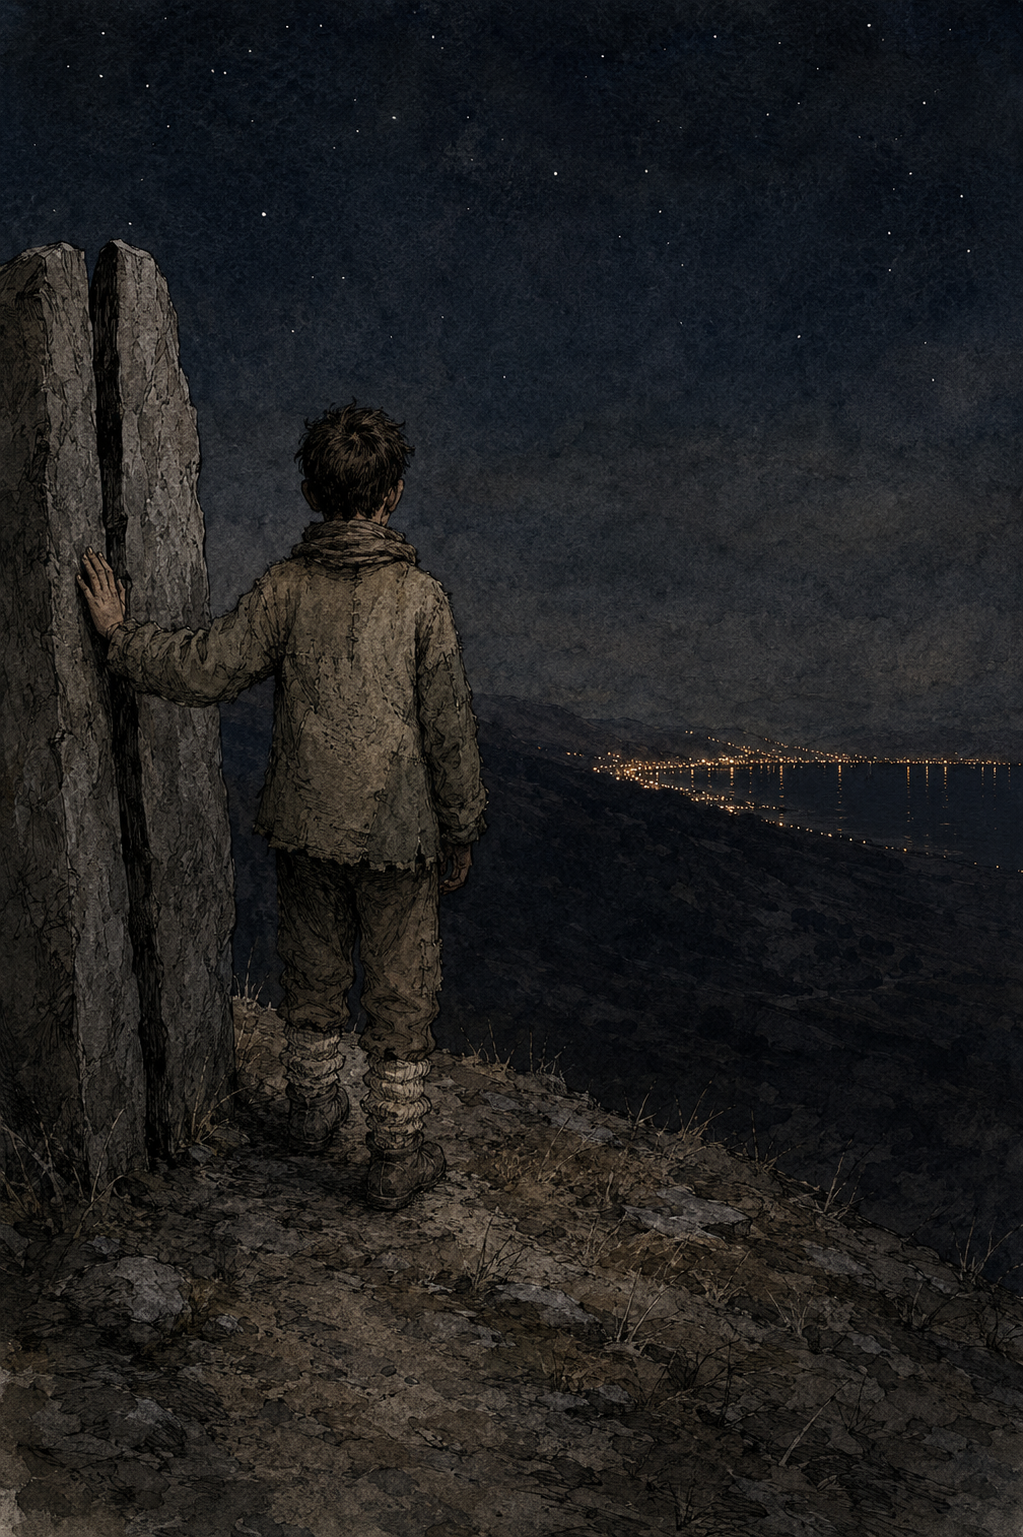
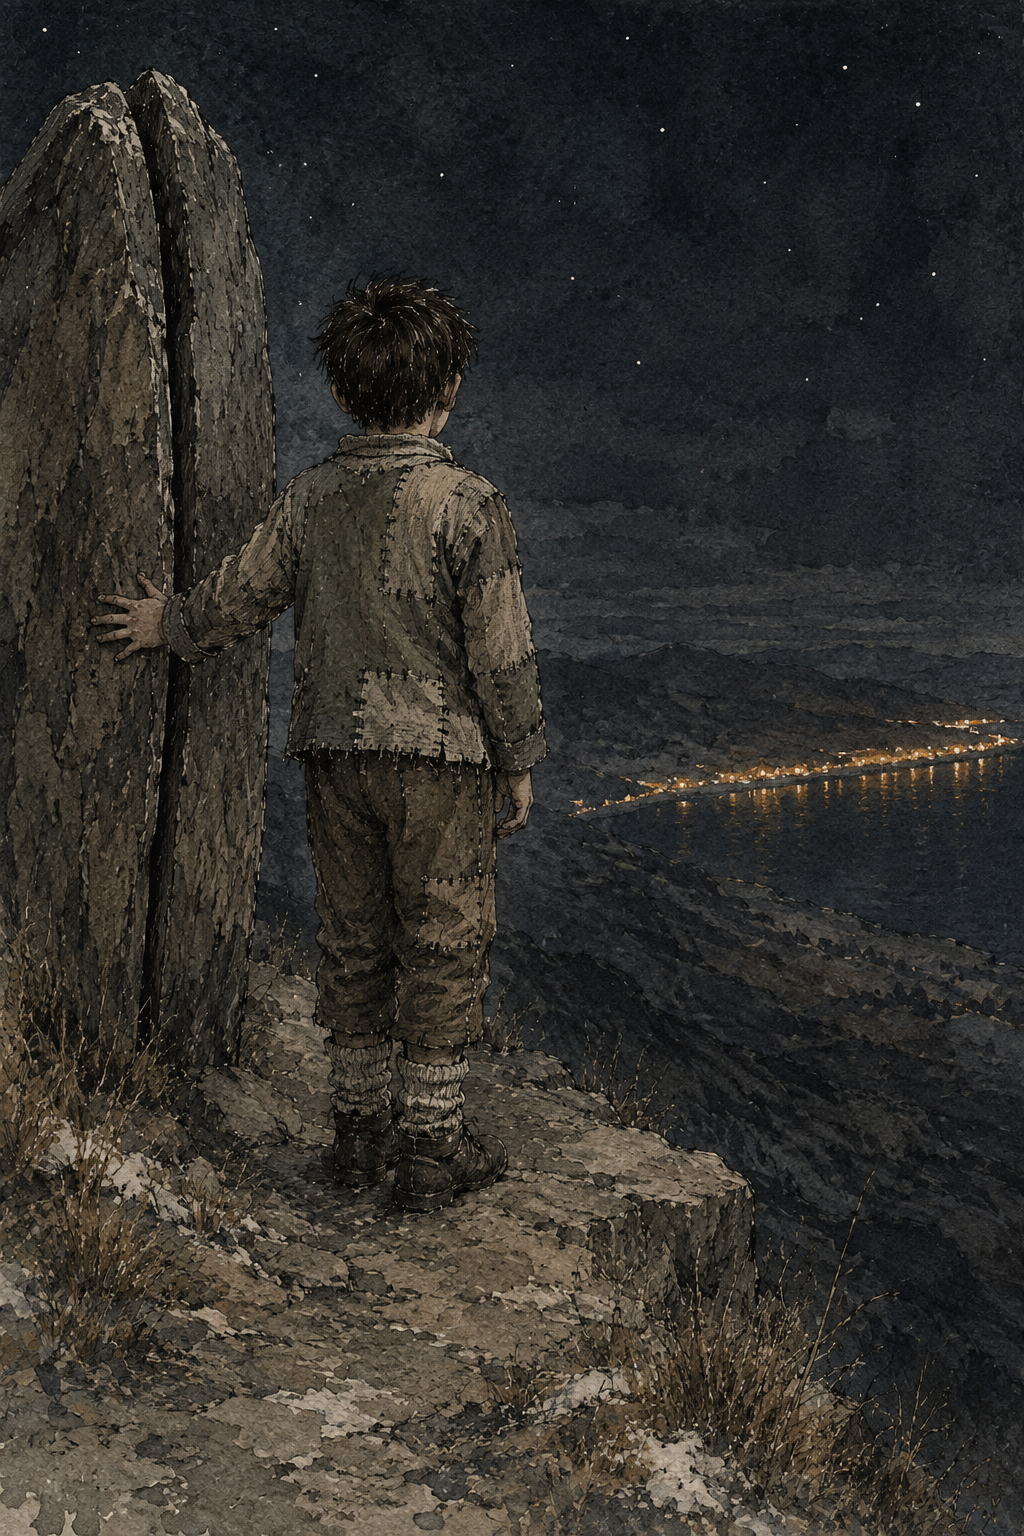
Rename the Ch. 5 plates by what they show and build the two pails

diff --git a/08-Plates/plates/ch05.md b/08-Plates/plates/ch05.md
@@ -6,11 +6,11 @@ Written to `../scene-prompt-system.md` §Write for an image generator: each fact
 
 ---
 
-### FIRST RUN: past-the-split-rock
+### PLATE-IMAGE-ONLY: hand-on-the-rock
 
 *Candidate 1, the chapter's pick, and the author's named target (s40).* Anchor: `images/portraits/kael-9.png` — hair and colouring; his face is not in this picture. Ch. 5 canon: *The split rock stood up out of the dark where it had always stood, at the end of the path, at the end of the world. Kael put his hand on it, the way you put your hand on the goat, on the door, on a thing of the house... Below him, far down, in the corner where the land met the sea, the whole heap of fallen stars was burning — more of them than he had ever seen, doubled and trembling in the black water, the longest night of the year lit end to end... He stepped past the rock.* And, of the walk down: *Wool socks over the boots' voice.*
 
-**ADOPTED.** `images/plates/ch05-past-the-split-rock.png`, first run.
+**ADOPTED — `images/plates/ch05-hand-on-the-rock.png`, first run.** Named for what it shows. It came back as the paragraph before the crossing — *Kael put his hand on it, the way you put your hand on the goat, on the door, on a thing of the house* — which is its own Ch. 5 beat, so it stands as its own plate rather than as a rejected version of the one below.
 
 **WHAT THE RUN PROVED, and the second one is the one that travels:**
 
@@ -38,14 +38,14 @@ Written to `../scene-prompt-system.md` §Write for an image generator: each fact
 
 **ANCHORING COST.** There is still no full figure of Kael below fourteen, so everything under the collar is authored here and anchored to nothing. It will not repeat in the next Part I plate. The portrait buys the medium, the palette and the hair — which is worth having, since `room-of-true-things` was written to test whether the house look survives with no reference at all and has never been run.
 
-**THE PROMPT THAT MADE THIS IMAGE IS NOT CARRIED HERE — author instruction, s41.** Only the compressed block below is kept. The 903-word block that produced `ch05-past-the-split-rock.png` was deleted deliberately and lives in `git show d5b3a5a:08-Plates/plates/ch05.md`. **So this image and the block below did not make each other**, and nothing on this sheet should be read as their pairing.
+**NO PROMPT IS CARRIED FOR THIS IMAGE — author instruction, s41.** `PLATE-IMAGE-ONLY` is what that heading means, and `scripts/build-prompts.sh` generates nothing from it. Only the compressed block below is kept. The 903-word block that produced `ch05-hand-on-the-rock.png` was deleted deliberately and lives in `git show d5b3a5a:08-Plates/plates/ch05.md`. **So this image and the block below did not make each other**, and nothing on this sheet should be read as their pairing.
 
 
 ---
 
-### PLATE: past-the-split-rock-recut
+### PLATE: past-the-split-rock
 
-**RUN — `images/plates/ch05-past-the-split-rock-recut.png`. Both images are kept (author, s41); one ruling outstanding, below.** The compression of the block above, kept as a separate prompt because **the adopted image's prompt of record may not be edited.**
+**RUN — `images/plates/ch05-past-the-split-rock.png`. One ruling outstanding, below.** The compression of the block above, kept as a separate prompt because **the adopted image's prompt of record may not be edited.**
 
 **IT FIXED WHAT IT AIMED AT.** *The ground he stands on is a narrow lip — the drop begins within a stride of that foot* produced exactly that: he stands on a rock shelf that ends at his boots, and the broad level ground of the first run is gone. *The rock stands behind his shoulder, not beside him* moved his body clear of the stone, so the crossing reads. **Replacing a banned pose with a described one worked both times**, which is §Write for an image generator's rule 6 the right way round.
 
@@ -133,4 +133,63 @@ the seams, the patches, the mended places and the bunched wool at his
 feet, ink dominant over wash throughout the clothing.
 
 No other figure anywhere in the frame, and no boat on the water.
+```
+
+
+---
+
+### PLATE: the-two-pails
+
+*Candidate 2.* **No anchor at all** — there is nobody in it. Ch. 5 canon: *two pails on the bench on a hard-frost night, one pail plain and one brined for the goat, set out together, found together in the iron morning... The plain pail wore its lid of ice. The brine pail moved when he rocked it, dark and obedient and unfrozen* — and the sentence that is the school: *The more salt the water carries, the deeper the cold must bite to hold it.*
+
+**THE PICTURE THAT KILLS THE PROMISE.** Two objects and one difference, and the difference is the fact that walks over two nights later and puts its hand on the oldest thing in him. No figure, because he is not in the room when it lands.
+
+**THE FIRST PLATE IN THE FOLDER WITH NEITHER A FACE NOR A WARM SOURCE.** Every one so far has had one or the other — a face to finish, or a fire, a lamp, a town. This one is grey on grey and has to hold on value alone. **That is the reason to run it**, and it also puts a limit under the open finish question: `THE INK CARRIES THE CLOTH` is a *cloth* lever, and there is no cloth in this picture, so whatever settles the set's consistency cannot be that clause by itself.
+
+**THE REFLECTION IS THE TELL, and it is the whole design.** *Moved when he rocked it* is motion and a still image cannot carry it. What it can carry is what each mouth does with the sky: **the ice returns nothing and the water returns a broken sky.** Frozen and unfrozen, stated as an optical fact rather than as an adjective.
+
+**A GREY DAWN PULLS HARD TOWARD A GOLD ONE**, so the block bans the sun disc, the glow and the warm hue separately — three channels, per §Over-writing contradicts. For the same reason the two-clause demotion is kept whole here (*no hard edges* AND *nothing competing for finish*); cutting the second is what let the last run's foreground come back rendered.
+
+```
+No reference image.
+
+Setting: a rough plank bench against the outside wall of a small
+stone mountain house on a hard-frost morning, as loose wash
+suggestion — the wall in cold grey wash behind it, frozen ground
+below, a pale flat band of sea far below and beyond, no detail
+anywhere. Thick white rime on the bench, the ground and the wall.
+
+THE VIEWER LOOKS DOWN INTO THE MOUTHS OF BOTH PAILS. A close view of
+the bench top from above and slightly to one side, high enough that
+the inside of each pail is fully visible. The two pails fill most of
+the frame.
+
+TWO WOODEN PAILS STAND SIDE BY SIDE ON THE BENCH, TOUCHING, AND THEY
+ARE THE SAME PAIL — same size, same staves, same iron hoops, same
+handle, same wear. Nothing tells them apart except what is in the
+mouth, AND THAT DIFFERENCE IS THE SUBJECT OF THE IMAGE. The left pail
+is capped by one flat disc of ice: opaque, matte, pale, reflecting
+nothing at all, a lid rather than a surface. The right pail is open
+dark water, unfrozen, the surface just disturbed and carrying a
+broken reflection of the grey sky across it. One mouth returns
+nothing and the other returns the sky.
+
+THE LIGHT COMES UP FLAT AND GREY OFF THE SEA, low and level. There is
+no sun disc, no glow, and NO WARM COLOUR ANYWHERE IN THE PICTURE —
+not in the sky, not on the frost, not in the water, not in the
+timber. There is no skin in this image. It is cold greys, dull
+green-greys and bare paper throughout.
+
+The two mouths are the only finished things and carry the sharpest
+step from light to dark — the ice pale and hard-edged against dark
+timber, the water black. The bench, the wall, the ground and the
+sides of the pails are held at quiet middle values, loosely washed,
+no hard edges, nothing competing for finish.
+
+Frost is bare unpainted paper: the rime on the bench boards, on the
+iron hoops, along the tops of the staves.
+
+Nobody is in this picture — no figure, no hand, no arm, no sleeve at
+the frame's edge, nobody behind the bench. There is no third pail and
+no other vessel anywhere in it.
 ```

diff --git a/08-Plates/plates/candidates.md b/08-Plates/plates/candidates.md
@@ -55,8 +55,8 @@ Every entry was checked against **THE PLATE FOLLOWS THE PAGE** when it was writt
 
 ## Ch. 5 — The Year
 
-1. ★ **Past the split rock.** — *built on the `ch05.md` sheet, unrun; the author's named target (s40). **That sheet fixes the split rock as a man-high upright stone with one cleft** — it recurs in Ch. 6 and Ch. 7.* Night, the end of the path, a hand coming off the stone — and far below, in the corner where the land meets the sea, the whole heap of fallen stars burning end to end on the longest night, doubled and trembling in the black water. From behind, from above the boy's shoulder. **The deliberate bookend to Ch. 1's flat rock:** same lights, same child, and this time nobody turned his chin.
-2. **The two pails.** A hard-frost morning, a bench, two pails found together: one wearing its lid of ice, one dark and unfrozen and moving when it is rocked. Two objects, no people. *The more salt the water carries, the deeper the cold must bite to hold it.* This is the picture that kills the promise.
+1. ★ **Past the split rock.** — **BUILT AND ADOPTED (s41): `images/plates/ch05-past-the-split-rock.png`; sheet `ch05.md`. The first run came back as the paragraph before the crossing and was kept as its own plate, `ch05-hand-on-the-rock.png`.** *That sheet fixes the split rock as a man-high upright stone with one cleft — it recurs in Ch. 6 and Ch. 7.* Night, the end of the path, a hand coming off the stone — and far below, in the corner where the land meets the sea, the whole heap of fallen stars burning end to end on the longest night, doubled and trembling in the black water. From behind, from above the boy's shoulder. **The deliberate bookend to Ch. 1's flat rock:** same lights, same child, and this time nobody turned his chin.
+2. **The two pails.** — *built on the `ch05.md` sheet, unrun.* A hard-frost morning, a bench, two pails found together: one wearing its lid of ice, one dark and unfrozen and moving when it is rocked. Two objects, no people. *The more salt the water carries, the deeper the cold must bite to hold it.* This is the picture that kills the promise.
 3. **The tap.** Ground level, frost on the cheek, a boy folded under the patient mass of his father — and the free hand flat on the frost, tapping twice. *The hand talks.*
 
 ---
